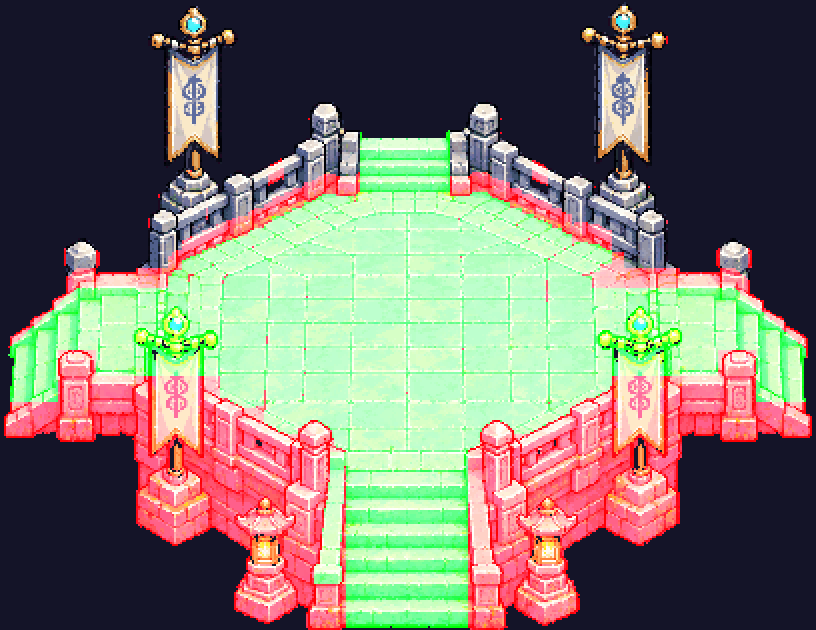
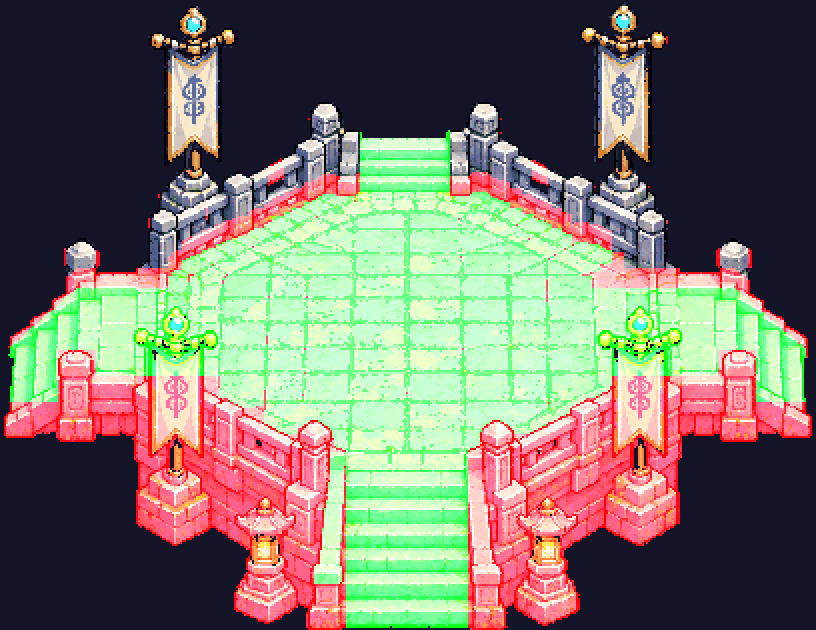
M8-02i: to lai mat san be cho lien, lop che co giu ca num tron

Changed region(s): [[0.2145, 0.3016, 0.7353, 0.7238], [0.7047, 0.3921, 0.7353, 0.4222], [0.3983, 0.7238, 0.4289, 0.754]]

diff --git a/tools/build_be_phap_dai.py b/tools/build_be_phap_dai.py
@@ -1,6 +1,7 @@
 """M8: bệ Tụ Linh Pháp Đài (ChatGPT vẽ: docs/concept/tong_mon_be_phap_dai_4loi_chatgpt.png
      -> tools/sprite_clean.py --scale 2.85 --colors 96 --tol 60 -> sprites/tm_be.png).
 Sinh từ sprite:
+  - (trước đó tools/fix_be_san.py tô lại mặt sàn cho liền)
   - xoá điểm ám magenta còn sót (viền + khe lan can) ngay trên sprites/tm_be.png
   - mặt sàn: LOANG từ tâm qua điểm ảnh sáng (dừng ở viền tối), cắt nhánh mảnh lan lên lan can/trụ bằng phép mở hình thái học
     + bậc nam, lối bắc, 2 cánh đông/tây khoanh tay (đo trên sprite 1.9, trong khe giữa má bậc/trụ)
@@ -79,7 +80,9 @@ def main():
     lum = 0.3 * a[..., 0] + 0.59 * a[..., 1] + 0.11 * a[..., 2]
     seed = (W // 2, int(H * 0.53))
     raw = flood(alpha & (lum > LUM_MIN), seed)
-    floor = morph(flood(morph(raw, OPEN_R, 'erode'), seed), OPEN_R, 'dilate') & raw
+    er = morph(raw, OPEN_R, 'erode'); ey, ex = np.where(er)
+    k = np.argmin((ex - seed[0]) ** 2 + (ey - seed[1]) ** 2); seed = (int(ex[k]), int(ey[k]))   # hạt giống gần tâm còn sau phép co
+    floor = morph(flood(er, seed), OPEN_R, 'dilate') & raw
     walk = floor | mask(W, H, [WING_W, WING_E], RECTS)
     ys, xs = np.where(floor & ~mask(W, H, rects=RECTS))   # tâm mặt sàn (bỏ bậc dính vào vùng loang) = tâm tụ linh trận
     ax, ay = float(MIRROR + 1) / 2, (ys.min() + FLOOR_BOTTOM) / 2   # đáy sàn đo tay (vùng loang dính mặt má bậc nên không dùng max)
@@ -87,14 +90,15 @@ def main():
     # cờ phía nam: chỉ giữ ĐIỂM ẢNH CỜ (vải kem/vàng, cán vàng, hoa văn xanh, ngọc + viền tối sát chúng), không lấy cả khung
     # (khung chữ nhật cũ ôm cả sàn đá cánh -> sàn đè lên nhân vật như cùng lớp với cờ)
     r_, g_, b_ = [a[..., i].astype(int) for i in range(3)]
-    tint = alpha & ((r_ - b_ > 18) | ((b_ - r_ > 35) & (b_ > 110))) & mask(W, H, rects=KEEP)
-    # chỉ các mảng màu cờ LỚN (vải, cán, ngọc); vụn ấm lẻ trên sàn đá (rêu, vệt vàng) bỏ -> hết hạt lơ lửng quanh cờ
-    big = np.zeros_like(tint); seen = np.zeros_like(tint)
-    for y0, x0 in zip(*np.where(tint)):
+    inK = mask(W, H, rects=KEEP)
+    tint = alpha & ((r_ - b_ > 18) | ((b_ - r_ > 35) & (b_ > 110))) & inK
+    # cờ = màu cờ + viền tối sát màu cờ (nối núm tròn/ngọc vào thân cờ); giữ các mảng liền >= 30 px -> bỏ vụn rêu/vệt vàng trên sàn
+    cand = tint | (morph(tint, 2, 'dilate') & alpha & (lum < 90) & inK)
+    keep = np.zeros_like(cand); seen = np.zeros_like(cand)
+    for y0, x0 in zip(*np.where(cand)):
         if seen[y0, x0]: continue
-        comp = flood(tint & ~seen, (x0, y0)); seen |= comp
-        if comp.sum() >= 30: big |= comp
-    keep = big | (morph(big, 1, 'dilate') & alpha & (lum < 80))   # + viền tối sát cờ
+        comp = flood(cand & ~seen, (x0, y0)); seen |= comp
+        if comp.sum() >= 30: keep |= comp
     front = a.copy(); front[walk & ~keep] = 0
     Image.fromarray(front).save(ROOT / 'sprites/tm_be_front.png')
     # đặc từng điểm ảnh: phía nam đỉnh vùng đi được của cột -> đặc cả khối; phía bắc -> chỉ FOOT px cuối của dải đục

diff --git a/tools/fix_be_san.py b/tools/fix_be_san.py
@@ -1,0 +1,46 @@
+"""M8: tô lại bát giác giữa mặt sàn bệ pháp đài cho liền với vòng đá ngoài (bản ChatGPT để giữa nhạt, kẻ ô sáng -> trông như tấm kính
+tách rời, người phát triển góp ý 14/11). Chạy SAU sprite_clean và TRƯỚC tools/build_be_phap_dai.py; ghi đè sprites/tm_be.png.
+Cách làm: trên CẢ mặt sàn (loang như build_be_phap_dai; vòng ngoài cũng kẻ sáng) — lấy số liệu màu từ vòng ngoài, (đo tay, px sprite --scale 2.85): đường kẻ sáng -> màu mạch đá tối của vòng ngoài; phần còn lại
+chuyển màu (trung bình/độ lệch từng kênh) theo mặt đá vòng ngoài.
+"""
+from pathlib import Path
+import numpy as np
+from PIL import Image, ImageDraw, ImageFilter
+
+ROOT = Path(__file__).resolve().parent.parent
+INNER = [(132, 136), (275, 136), (296, 152), (296, 190), (275, 200), (132, 200), (111, 190), (111, 152)]
+RING = [(150, 104), (257, 104), (312, 128), (318, 165), (300, 212), (260, 226), (148, 226), (106, 212), (90, 165), (96, 128)]
+
+
+def poly(W, H, p):
+    im = Image.new('L', (W, H), 0); ImageDraw.Draw(im).polygon(p, fill=255); return np.array(im) > 0
+
+
+def main():
+    path = ROOT / 'sprites/tm_be.png'
+    im = Image.open(path).convert('RGBA'); a = np.array(im).astype(float); H, W = a.shape[:2]
+    rgb = a[..., :3]; lum = rgb @ [0.3, 0.59, 0.11]
+    import sys; sys.path.insert(0, str(ROOT / 'tools')); from build_be_phap_dai import flood, morph, LUM_MIN, OPEN_R
+    alpha = a[..., 3] > 0; seed = (W // 2, int(H * 0.53))
+    raw = flood(alpha & (lum > LUM_MIN), seed)
+    floor = morph(flood(morph(raw, OPEN_R, 'erode'), seed), OPEN_R, 'dilate') & raw
+    inner = morph(floor, 2, 'erode') & (np.arange(H)[:, None] < 232)   # cả mặt sàn (trừ mép sát lan can, trừ bậc nam)
+    ring = poly(W, H, RING) & ~poly(W, H, INNER) & alpha
+    med = np.array(Image.fromarray(lum.astype(np.uint8)).filter(ImageFilter.MedianFilter(5))).astype(float)
+    r_seam = ring & (lum < med - 22); r_face = ring & ~r_seam
+    seam_col = np.median(rgb[r_seam], 0)
+    i_seam = inner & (lum > med + 10); i_face = inner & ~i_seam
+    mu_i, sd_i = rgb[i_face].mean(0), rgb[i_face].std(0) + 1e-3
+    mu_r, sd_r = rgb[r_face].mean(0), rgb[r_face].std(0)
+    out = rgb.copy()
+    out[i_face] = (rgb[i_face] - mu_i) / sd_i * sd_r + mu_r
+    out[i_seam] = seam_col
+    # không để mặt đá tối hơn ngưỡng loang mặt sàn (build_be_phap_dai LUM_MIN) -> vết tối sẽ đục lỗ vùng đi được
+    l2 = out @ [0.3, 0.59, 0.11]; low = inner & (l2 < 95); out[low] += (95 - l2[low])[:, None]
+    a[..., :3] = np.clip(out, 0, 255)
+    Image.fromarray(a.astype(np.uint8)).save(path)
+    print('mạch', int(i_seam.sum()), 'mặt', int(i_face.sum()), 'màu mạch', seam_col.round())
+
+
+if __name__ == '__main__':
+    main()

diff --git a/TASKS_TU_TIEN_LO.md b/TASKS_TU_TIEN_LO.md
@@ -375,6 +375,7 @@ Thiết kế + backlog đầy đủ (ChatGPT, 13/11): **`docs/chatgpt_tong_mon_M
   - [x] M8-02f (14/11) Sửa bệ lần 2: nhỏ thêm (`--scale 1.9`, ~84% bản đầu); mặt sàn tìm tự động (loang từ tâm + mở hình thái), bậc/cánh khoanh trong khe má bậc/trụ; va chạm lưới mịn 4 px (`PLAZA.fine`, `m.solidPx`) — vật phía bắc sàn chỉ đặc ở chân, phía nam đặc cả khối; nắn góc khi đi (chỉ sảnh) để men theo bậc dốc; test sect_map loang theo `canStand` bước 4 px; ảnh kiểm tra va chạm `docs/playtest/M8_be_va_cham.png`; 204/204; phím thật 16 chỗ mép bệ, chỉ giữ A/D từ tâm tới Tàng Kinh 6,3 s / Đan Dược ~6,2 s
   - [x] M8-02g (14/11) Góp ý: nới vùng chặn 6 px quanh khối phía nam (vách, đèn, má bậc, trụ dưới cánh, bệ cờ nam; không lấn mặt sàn) để nhân vật không áp sát rồi bị lớp che đè; cờ phía nam ở lớp che chỉ giữ điểm ảnh cờ (lọc màu) thay vì cả khung — hết mảng sàn đè lên nhân vật; 204/204; phím thật `docs/playtest/M8_02g_mep_be.png`
   - [x] M8-02h (14/11) Bệ thu còn 2/3 (`--scale 2.85`, 408×315); vòng thiên kiếp ở sảnh thu theo (`TRIBULATION.SECT_ARENA_R` 62, `createTrib(..., R)`, động phủ cũ giữ 96) — người phát triển chọn; lớp che cờ nam chỉ giữ mảng màu cờ ≥ 30 px (hết hạt lơ lửng); cấm đứng ở chỗ trụ khắc chữ đầu cánh đè lên thân; không nới vùng chặn vào sàn/bậc/cánh; 204/204; phím thật `docs/playtest/M8_02h_mep_be.png`
+  - [x] M8-02i (14/11) Mặt sàn bệ tô lại cho liền (`tools/fix_be_san.py`: kẻ ô sáng → mạch đá tối, chuyển màu theo vòng đá ngoài — hết "tấm kính" bát giác giữa); lớp che cờ nam = màu cờ + viền tối sát màu cờ, mảng liền ≥ 30 px → giữ cả 2 núm tròn, không vụn; 204/204; ảnh `docs/playtest/M8_02i_co.png`, `M8_02i_san.png`
 - [ ] M8-03 Hệ thống tương tác công trình dùng chung (M, P0)
 - [ ] M8-04 Cổng Bí Cảnh (S, P0)
 - [ ] M8-05 Tụ Linh Pháp Đài (M, P0) → GATE M8-A

diff --git a/docs/playtest/M8_02b.md b/docs/playtest/M8_02b.md
@@ -75,3 +75,11 @@ Góp ý: thu bệ 1.5 lần; quanh cờ còn hạt sàn lơ lửng; trụ khắc
 - Đường đi dời vào chân 4 lối mới.
 - 204/204. Phím thật: 8 chỗ (`docs/playtest/M8_02h_mep_be.png`); tâm → Tàng Kinh / Đan Dược 6,2 s (giữ A/D, thêm S ở đoạn xuống bậc cánh).
 - Còn tồn: chỉ giữ A/D thì dừng ở mép bậc cánh (lối xuống thấp hơn sàn ~16 px, quá tầm nắn góc 6 px) — phải bấm thêm S/xuống.
+
+## M8-02i — sàn liền, cờ đủ (14/11)
+Góp ý: hết vụn nhưng cờ mất phần (2 núm tròn cạnh cờ bị nhân vật đè lên); bát giác giữa sàn nhạt màu, kẻ ô sáng, trông như tấm kính tách rời nhìn xuyên được.
+- Quy trình bệ giờ: `sprite_clean.py --scale 2.85` → `tools/fix_be_san.py` → `tools/build_be_phap_dai.py`.
+- `fix_be_san.py`: trên cả mặt sàn (loang như build), đường kẻ sáng → màu mạch đá tối của vòng ngoài, mặt đá chuyển màu (trung bình/độ lệch từng kênh) theo vòng ngoài, chặn không tối hơn ngưỡng loang.
+- Cờ: ứng viên = màu cờ + điểm tối ≤ 2 px quanh màu cờ (nối núm/ngọc vào thân), giữ mảng liền ≥ 30 px.
+- build: hạt giống loang lấy điểm gần tâm còn lại sau phép co (sàn mới có vết tối làm hạt giống cũ rơi vào lỗ).
+- 204/204. Ảnh trong game: `docs/playtest/M8_02i_co.png` (đứng sau núm cờ bị che), `docs/playtest/M8_02i_san.png`.
